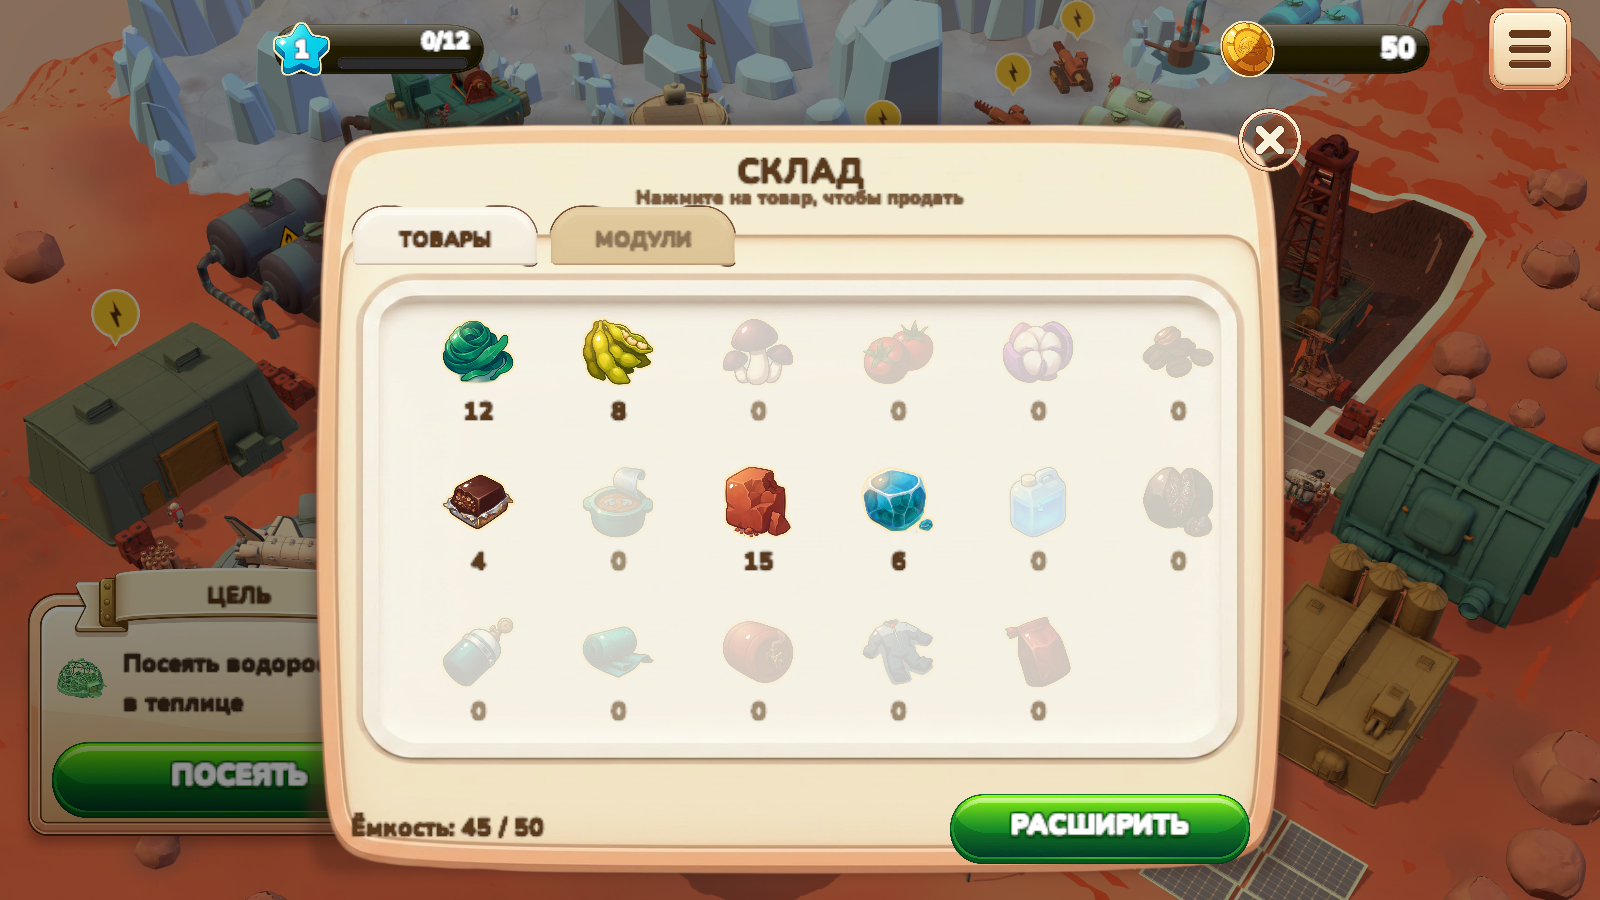
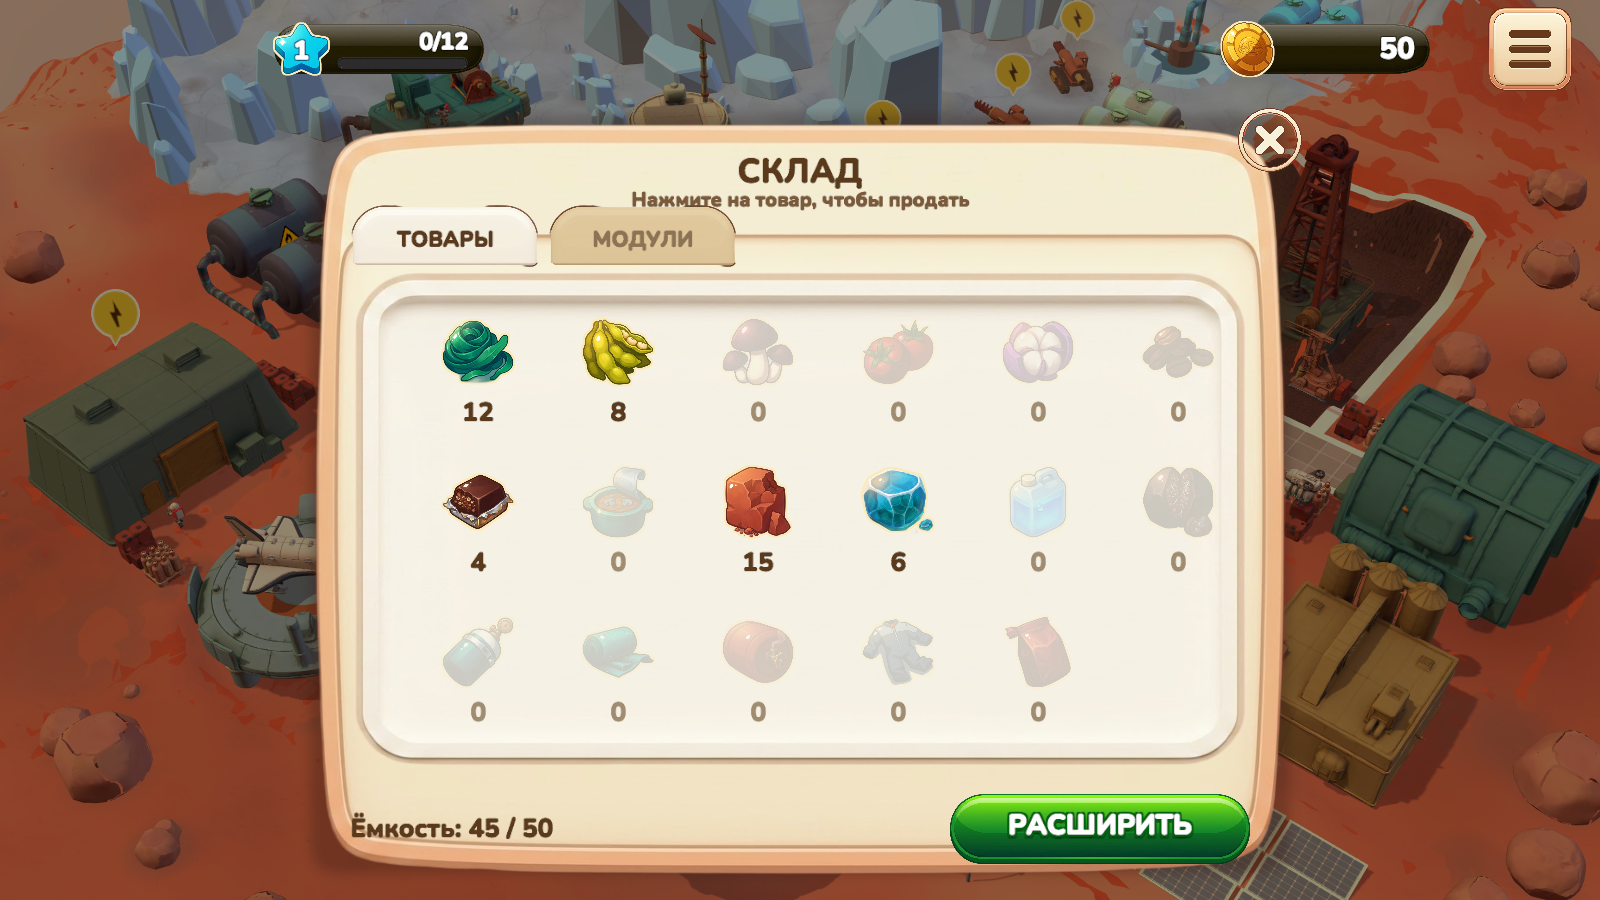
Ночь 2: виток 4, кадры приёмки

diff --git a/loop/ui/OTCHET-nochi-2.md b/loop/ui/OTCHET-nochi-2.md
@@ -35,3 +35,10 @@
 - Урок: субагенты не имеют MCP-моста; при открытом редакторе они пишут код, а кадры снимает оркестратор через RunCommand. Объекты, созданные старым кодом, живут в сцене — при смене параметров пересоздавать явно.
 - UI-23 попытка 1 — не принята: инспектор не нашёл шаттл в кадрах 1 и 3 (искал маской «белое» у площадки; шаттл на самом деле в воздухе над ангаром, около x=280,y=330, с тенью на грунте — проверено диффом с покоем: 18.5k отличных пикселей, bbox x123..514), но прав в главном — пыли при касании визуально нет. Попытка 2: пыль крупнее и плотнее, кадр касания на +0.3 с после контакта.
 - UI-23 попытка 2 — **не закрыта, отложена**. Найдено и починено: эмиттер пыли стоял в пивоте модели, а пивот смещён от меша на 24 м (память «ставить по центру геометрии») — перенесён к центру меша; кривые частиц и бёрсты исправлены; старая система в сцене пересоздана. Но частицы не рендерятся в кадрах через `Camera.Render()` в RenderTexture ни в Edit, ни в Play (проверено тремя вариантами состояния и 4-метровыми белыми частицами; куб в той же точке рендерится). Живая проверка в Play скриншотами не удалась: латентность моста ~14 с ломает синхронизацию, клавиша L не дошла до Game view. Шаттл в детерминированных кадрах летает (тень на грунте читается). Утром: снять пыль реальным экраном в Play руками заказчика или через ScreenCapture.CaptureScreenshot из корутины.
+
+## Виток 4 — контур, все здания, карточка при складе (UI-24, в работе)
+- Контур обратно в циан #5FE3E8 с тёмной каймой #0E3B75 (два inverted-hull). Кадр со всеми контурами разом: `noch2-vydelenie-vse.png` — контур включился у 19 из 19 целей клика. Общежития сначала были без контура и без макушки: меш `modul-tonnelnyy.fbx` без Read/Write — включён; ещё 17 мешей зданий нечитаемы (макушка по габариту, контур работает).
+- Без цели клика вовсе (по эвристике имени, решение заказчика): цистерны метана, солнечные поля/панели, площадка шаттла, башня-доминанта, kupol-grib, grib-antenna, bashnya-dominanta. Ответ на вопрос «все ли здания выделяются»: все 19 построек с ролью — да; декор и инфраструктура — нет.
+- Якорь плашки — по макушке меша выбранного здания (BuildingClickTarget.MakushkaMir), карточка цели прячется при открытом складе (EkranSklada + KadrSklad).
+- Контакт-лист временной камерой не отрисовался (пустой) — заменён полным кадром со всеми контурами.
+- Кадры приёмки: `noch2-sklad-3.png` (карточка цели скрыта: зелёных вне кнопки 0.003% против 1.2 до), `noch2-tap-6.png` (клик по теплице в Play: контур циан+кайма, плашка над выделенным куполом, ~30 px до макушки в масштабе окна). Инспектор — в работе. Коммиты mars-unity ad94d95, 844b8e4.
